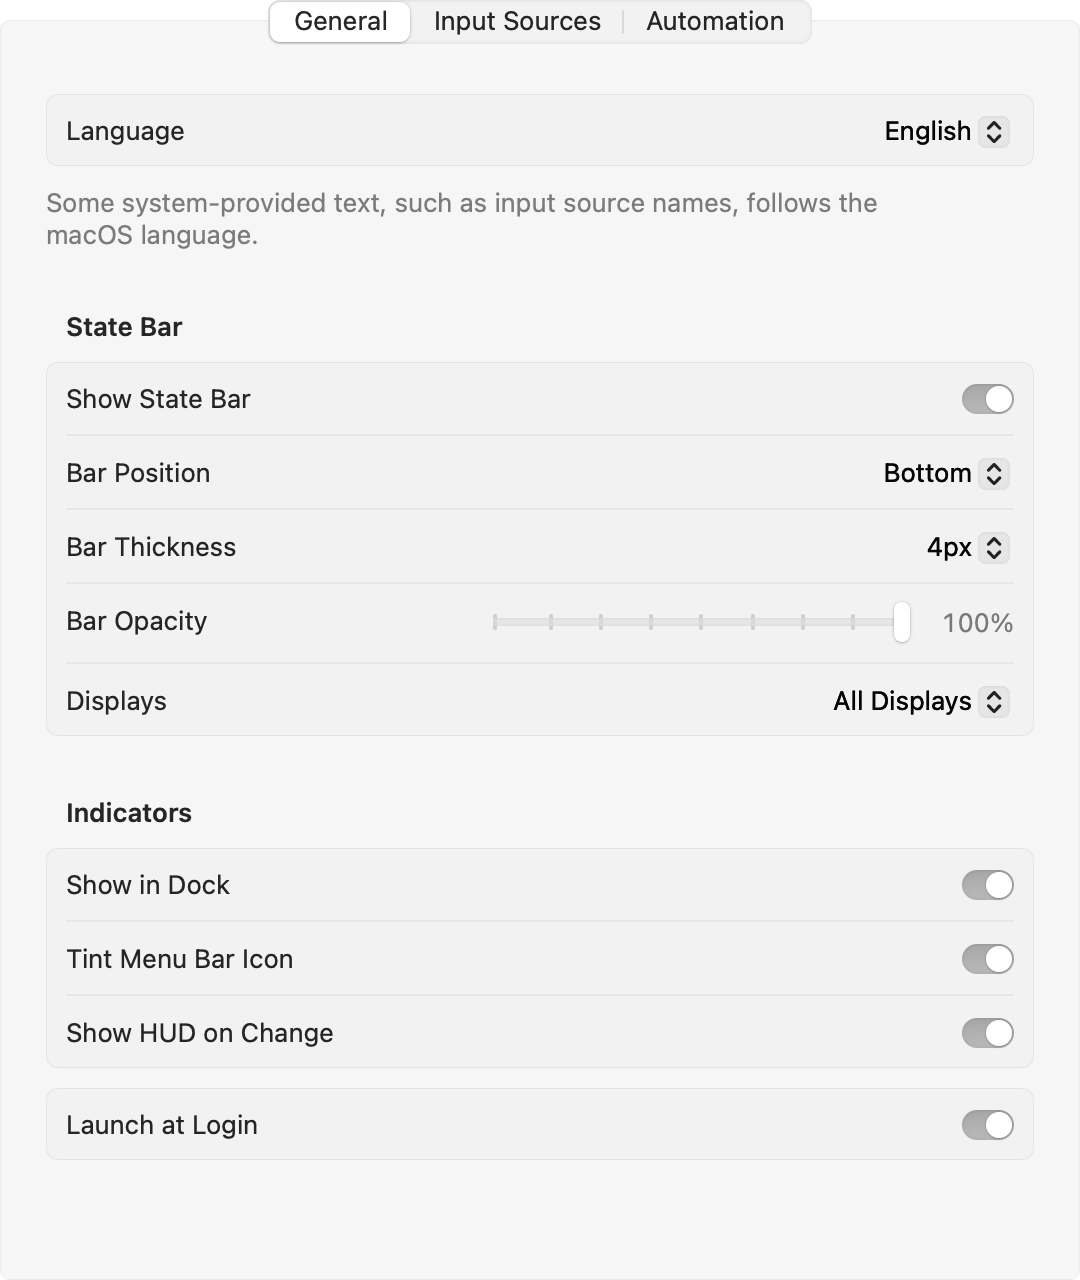
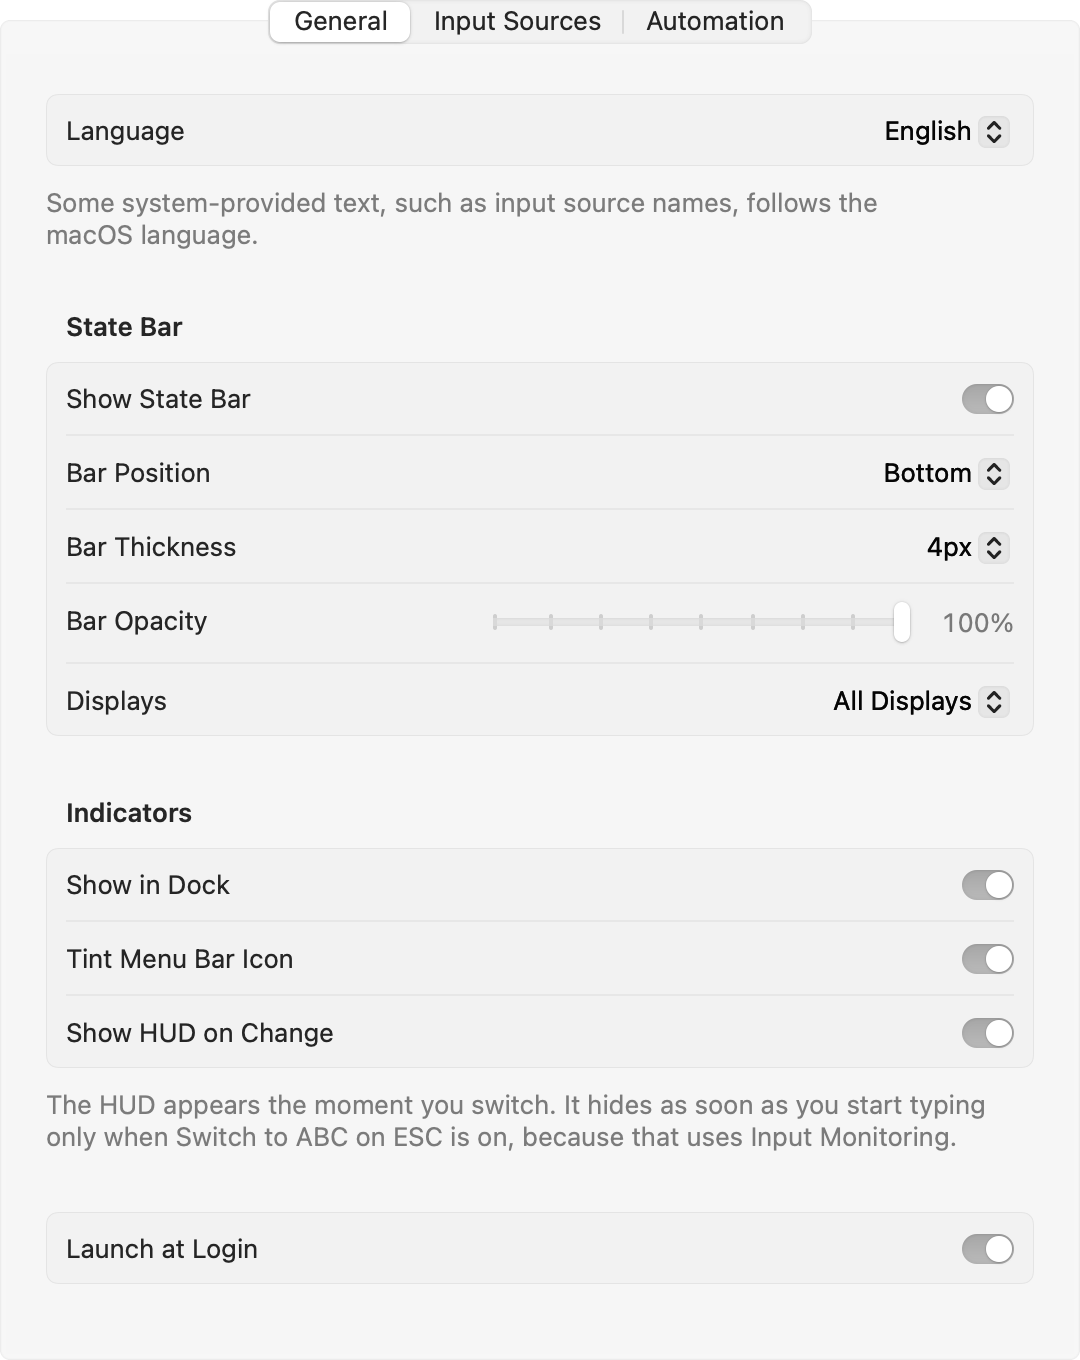
hud 딜레이 수정

diff --git a/site/manual-ko.html b/site/manual-ko.html
@@ -82,7 +82,7 @@
       <p>그 밖의 언어에도 자동으로 색이 정해지고, 매번 같은 색이 나옵니다. 빨강은 Caps Lock 전용입니다.</p>
 
       <h3>HUD</h3>
-      <p><b>전환 시 HUD 표시</b>를 켜면, 입력 소스를 바꿀 때마다 화면 아래쪽에 카멜레온이 새 입력 소스의 색으로 잠깐 나타납니다. 어떤 언어든 같은 방식입니다.</p>
+      <p><b>전환 시 HUD 표시</b>를 켜면, 입력 소스를 바꿀 때마다 화면 아래쪽에 카멜레온이 새 입력 소스의 색으로 잠깐 나타납니다. 어떤 언어든 같은 방식입니다. 전환하는 순간 바로 나타나 0.25초쯤 뒤에 사라집니다. <b>ESC를 누르면 ABC(으)로 전환</b>을 켜 두면 타이핑을 시작하는 즉시 숨기도 합니다.</p>
       <ul class="hud-samples">
         <li><figure><img src="assets/screens/hud-abc.png" alt="파란 카멜레온: ABC" width="104" height="96" loading="lazy"><figcaption>ABC</figcaption></figure></li>
         <li><figure><img src="assets/screens/hud-korean.png" alt="초록 카멜레온: 한국어" width="104" height="96" loading="lazy"><figcaption>한국어</figcaption></figure></li>
@@ -122,7 +122,7 @@
       <h3>일반</h3>
       <figure>
         <div class="window"><div class="titlebar"><i></i><i></i><i></i><span>KeyHue 설정</span></div>
-          <img src="assets/screens/ko/settings-general.png" alt="일반 탭: 언어, 상태 바 옵션, 표시, 로그인 시 실행" width="1080" height="1280" loading="lazy"></div>
+          <img src="assets/screens/ko/settings-general.png" alt="일반 탭: 언어, 상태 바 옵션, 표시, 로그인 시 실행" width="1080" height="1360" loading="lazy"></div>
         <figcaption>언어, 색 선, 메뉴바 아이콘, HUD, 로그인 시 실행.</figcaption>
       </figure>
       <ul>
@@ -135,7 +135,7 @@
       <h3>입력 소스</h3>
       <figure>
         <div class="window"><div class="titlebar"><i></i><i></i><i></i><span>KeyHue 설정</span></div>
-          <img src="assets/screens/ko/settings-sources.png" alt="입력 소스 탭: 입력 소스별 색, Caps Lock 색, 기본 입력 소스" width="1080" height="1280" loading="lazy"></div>
+          <img src="assets/screens/ko/settings-sources.png" alt="입력 소스 탭: 입력 소스별 색, Caps Lock 색, 기본 입력 소스" width="1080" height="1360" loading="lazy"></div>
         <figcaption>켜진 입력 소스마다 한 줄씩 나옵니다. 색을 눌러 바꿉니다.</figcaption>
       </figure>
       <ul>
@@ -147,7 +147,7 @@
       <h3>자동 전환</h3>
       <figure>
         <div class="window"><div class="titlebar"><i></i><i></i><i></i><span>KeyHue 설정</span></div>
-          <img src="assets/screens/ko/settings-automation.png" alt="자동 전환 탭: 앱·창을 바꿀 때의 동작, ESC, 실험적 텍스트 필드 옵션" width="1080" height="1280" loading="lazy"></div>
+          <img src="assets/screens/ko/settings-automation.png" alt="자동 전환 탭: 앱·창을 바꿀 때의 동작, ESC, 실험적 텍스트 필드 옵션" width="1080" height="1360" loading="lazy"></div>
         <figcaption>자동 전환은 직접 켜기 전까지 모두 꺼져 있습니다.</figcaption>
       </figure>
 

diff --git a/site/manual.html b/site/manual.html
@@ -82,7 +82,7 @@
       <p>Other languages get their own color automatically, and it stays the same every time. Red is kept for Caps Lock.</p>
 
       <h3>HUD</h3>
-      <p>With <b>Show HUD on Change</b> on, the chameleon appears briefly near the bottom of the screen in the new input source's color whenever you switch. It works the same way for every language.</p>
+      <p>With <b>Show HUD on Change</b> on, the chameleon appears briefly near the bottom of the screen in the new input source's color whenever you switch. It works the same way for every language. It appears the moment you switch and is gone about a quarter of a second later. If <b>Switch to ABC on ESC</b> is on, it also hides as soon as you start typing.</p>
       <ul class="hud-samples">
         <li><figure><img src="assets/screens/hud-abc.png" alt="Blue chameleon: ABC" width="104" height="96" loading="lazy"><figcaption>ABC</figcaption></figure></li>
         <li><figure><img src="assets/screens/hud-korean.png" alt="Green chameleon: Korean" width="104" height="96" loading="lazy"><figcaption>Korean</figcaption></figure></li>
@@ -122,7 +122,7 @@
       <h3>General</h3>
       <figure>
         <div class="window"><div class="titlebar"><i></i><i></i><i></i><span>KeyHue Settings</span></div>
-          <img src="assets/screens/en/settings-general.png" alt="General tab: Language, State Bar options, Indicators and Launch at Login" width="1080" height="1280" loading="lazy"></div>
+          <img src="assets/screens/en/settings-general.png" alt="General tab: Language, State Bar options, Indicators and Launch at Login" width="1080" height="1360" loading="lazy"></div>
         <figcaption>Language, the colored line, the menu bar icon, the HUD and Launch at Login.</figcaption>
       </figure>
       <ul>
@@ -135,7 +135,7 @@
       <h3>Input Sources</h3>
       <figure>
         <div class="window"><div class="titlebar"><i></i><i></i><i></i><span>KeyHue Settings</span></div>
-          <img src="assets/screens/en/settings-sources.png" alt="Input Sources tab: a color for each input source, Caps Lock color and Default Input Source" width="1080" height="1280" loading="lazy"></div>
+          <img src="assets/screens/en/settings-sources.png" alt="Input Sources tab: a color for each input source, Caps Lock color and Default Input Source" width="1080" height="1360" loading="lazy"></div>
         <figcaption>One row per enabled input source. Click a color to change it.</figcaption>
       </figure>
       <ul>
@@ -147,7 +147,7 @@
       <h3>Automation</h3>
       <figure>
         <div class="window"><div class="titlebar"><i></i><i></i><i></i><span>KeyHue Settings</span></div>
-          <img src="assets/screens/en/settings-automation.png" alt="Automation tab: what to do when switching apps and windows, ESC, and the experimental text field option" width="1080" height="1280" loading="lazy"></div>
+          <img src="assets/screens/en/settings-automation.png" alt="Automation tab: what to do when switching apps and windows, ESC, and the experimental text field option" width="1080" height="1360" loading="lazy"></div>
         <figcaption>All automatic switching is off until you turn it on.</figcaption>
       </figure>
 

diff --git a/Tests/KeyHueAppTests/AppIntegrationTests.swift b/Tests/KeyHueAppTests/AppIntegrationTests.swift
@@ -331,7 +331,7 @@ struct HUDTests {
         #expect(outside.alphaComponent < 0.01)
     }
 
-    private var visibleFor: TimeInterval { HUDController.fadeInDuration + HUDController.holdDuration }
+    private var visibleFor: TimeInterval { HUDController.holdDuration }
 
     @Test func showsTintedChameleonThenHides() throws {
         let clock = FakeScheduler()
@@ -352,19 +352,32 @@ struct HUDTests {
         let clock = FakeScheduler()
         let hud = HUDController(mask: halfMask(), scheduler: clock)
         hud.show(color: RGBAColor(hex: "#0A84FF")!, on: NSScreen.main)
-        clock.advance(by: 0.3)
-        hud.show(color: RGBAColor(hex: "#34C759")!, on: NSScreen.main) // 사라지기 전에 다시 전환(페이드 인 없이 유지 시간만 다시)
+        clock.advance(by: HUDController.holdDuration - 0.05)
+        hud.show(color: RGBAColor(hex: "#34C759")!, on: NSScreen.main) // 사라지기 전에 다시 전환(유지 시간만 다시)
         clock.advance(by: HUDController.holdDuration - 0.01) // 첫 번째 숨김 예약 시각도 지났지만 무시돼야 한다
         #expect(hud.isShowing)
         clock.advance(by: 0.01)
         #expect(!hud.isShowing)
     }
 
-    @Test func appearsGentlyAndLeavesQuickly() {
-        // ADR 0024, 0025: 나타날 때는 부드럽게, 사라질 때는 바로. 전체도 짧게.
+    @Test func appearsInstantlyAndLeavesQuickly() {
+        // ADR 0032: 전환하는 순간 바로 보이고(서서히 나타나면 전환이 늦게 느껴진다), 빠르게 사라진다. 전체도 짧게.
+        let clock = FakeScheduler()
+        let hud = HUDController(mask: halfMask(), scheduler: clock)
+        hud.show(color: RGBAColor(hex: "#FF9500")!, on: NSScreen.main)
+        #expect(hud.isFullyVisible) // 시간이 전혀 흐르지 않아도 완전히 보인다
         #expect(HUDController.fadeOutDuration <= 0.06)
-        #expect(HUDController.fadeInDuration > HUDController.fadeOutDuration)
-        #expect(HUDController.fadeInDuration + HUDController.holdDuration + HUDController.fadeOutDuration <= 0.55)
+        #expect(HUDController.holdDuration + HUDController.fadeOutDuration <= 0.35)
+    }
+
+    @Test func switchingAgainWhileFadingOutShowsItFullyRightAway() {
+        let clock = FakeScheduler()
+        let hud = HUDController(mask: halfMask(), scheduler: clock)
+        hud.show(color: RGBAColor(hex: "#0A84FF")!, on: NSScreen.main)
+        clock.advance(by: HUDController.holdDuration) // 사라지기 시작
+        #expect(!hud.isShowing)
+        hud.show(color: RGBAColor(hex: "#34C759")!, on: NSScreen.main)
+        #expect(hud.isFullyVisible)
     }
 
     @Test func typingHidesItImmediately() {
@@ -385,7 +398,7 @@ struct HUDTests {
         hud.hideNow()
         clock.advance(by: 0.1)
         hud.show(color: RGBAColor(hex: "#0A84FF")!, on: NSScreen.main) // 바로 다시 전환
-        clock.advance(by: visibleFor - 0.11) // 첫 번째 숨김 예약 시각이 지나도
+        clock.advance(by: visibleFor - 0.01) // 첫 번째 숨김 예약 시각이 지나도
         #expect(hud.isShowing)
         clock.advance(by: 0.2)
         #expect(!hud.isShowing)

diff --git a/Sources/KeyHueApp/UI/HUDController.swift b/Sources/KeyHueApp/UI/HUDController.swift
@@ -7,9 +7,9 @@ import KeyHueCore
 /// 색이 곧 입력 소스이므로 State Bar·메뉴바 아이콘과 같은 규칙을 따른다.
 @MainActor
 final class HUDController {
-    /// 나타날 때는 부드럽게, 사라질 때는 바로(ADR 0025). 확인하고 타이핑을 시작할 때 HUD가 남아 있으면 느리게 느껴진다.
-    static let fadeInDuration: TimeInterval = 0.15
-    static let holdDuration: TimeInterval = 0.3
+    /// 전환하는 순간 바로 나타나고(페이드 인 없음), 잠깐 머문 뒤 빠르게 사라진다(ADR 0032).
+    /// 서서히 나타나면 색 확인이 그만큼 늦어져 전환 자체가 느리게 느껴진다.
+    static let holdDuration: TimeInterval = 0.25
     static let fadeOutDuration: TimeInterval = 0.05
     static let size = NSSize(width: 104, height: 96)
     private static let bottomOffset: CGFloat = 140
@@ -38,6 +38,9 @@ final class HUDController {
     /// 표시 중인 카멜레온 이미지(테스트용).
     var image: NSImage? { imageView.image }
 
+    /// 완전히 보이는 중인지(테스트용). 나타나는 애니메이션 없이 표시하자마자 true여야 한다.
+    var isFullyVisible: Bool { isShowing && panel.alphaValue >= 1 }
+
     /// 문서용 스크린샷(DocScreenshots)에서 HUD 모양을 그릴 때 쓴다.
     var contentView: NSView? { panel.contentView }
 
@@ -52,20 +55,16 @@ final class HUDController {
         ))
         generation += 1
         let current = generation
-        // 이미 떠 있으면(빠른 연속 전환) 다시 페이드 인 하지 않고 색만 바꾼다.
-        let fadeIn = isShowing ? 0 : Self.fadeInDuration
-        if !isShowing {
-            panel.alphaValue = 0
-        }
+        // 애니메이션 없이 바로 보인다. 사라지는 중이었어도 즉시 다시 불투명하게 되돌린다.
         isShowing = true
-        panel.orderFrontRegardless()
         NSAnimationContext.runAnimationGroup { context in
-            context.duration = fadeIn
-            context.timingFunction = CAMediaTimingFunction(name: .easeOut)
+            context.duration = 0
             panel.animator().alphaValue = 1
         }
+        panel.alphaValue = 1
+        panel.orderFrontRegardless()
 
-        scheduler.schedule(after: fadeIn + Self.holdDuration) { [weak self] in
+        scheduler.schedule(after: Self.holdDuration) { [weak self] in
             self?.fadeOut(current)
         }
     }

diff --git a/Sources/KeyHueApp/UI/SettingsWindow.swift b/Sources/KeyHueApp/UI/SettingsWindow.swift
@@ -187,7 +187,7 @@ struct SettingsView: View {
     @ObservedObject var model: SettingsModel
     @State var tab: SettingsTab = .general
 
-    static let size = CGSize(width: 540, height: 640)
+    static let size = CGSize(width: 540, height: 680)
 
     var body: some View {
         TabView(selection: $tab) {
@@ -247,10 +247,14 @@ private struct GeneralSettingsView: View {
                 }
             }
 
-            Section(L("Indicators")) {
+            Section {
                 Toggle(L("Show in Dock"), isOn: model.binding(\.showDockIcon))
                 Toggle(L("Tint Menu Bar Icon"), isOn: model.binding(\.tintMenuBarIcon))
                 Toggle(L("Show HUD on Change"), isOn: model.binding(\.showHUD))
+            } header: {
+                Text(L("Indicators"))
+            } footer: {
+                FooterText(L("The HUD appears the moment you switch. It hides as soon as you start typing only when Switch to %@ on ESC is on, because that uses Input Monitoring.", model.resolvedDefaultName))
             }
 
             Section {

diff --git a/docs/adr/0032-hud-appears-instantly.md b/docs/adr/0032-hud-appears-instantly.md
@@ -1,0 +1,23 @@
+# 0032. HUD는 전환하는 순간 바로 나타난다 (페이드 인 없음)
+
+- 상태: Accepted (ADR 0025의 나타나는 방식과 유지 시간을 대체)
+- 날짜: 2026-09-29
+
+## 맥락
+ADR 0025에서 HUD는 0.15초에 걸쳐 부드럽게 나타나 0.3초 머문 뒤 0.05초 만에 사라지도록 했다. 이후 "HUD가 보이면서 전환에 딜레이가 있는 것 같다"는 보고가 있었다.
+- 입력 소스 전환 자체는 약 25 ms에 반영된다(ADR 0023). 하지만 HUD가 완전히 보이기까지 150 ms가 더 걸리므로, 사용자는 색을 확인하려고 그만큼 기다리게 되고 전환이 늦다고 느낀다.
+- 타이핑을 시작하면 HUD를 바로 숨기는 기능(ADR 0025)은 키 입력을 알아야 한다. 그래서 ESC 옵션(입력 모니터링)을 켰을 때만 동작하는데, 이 조건이 화면에 드러나 있지 않았다. ESC 옵션이 꺼져 있으면 HUD가 약 0.5초 동안 글자 위에 떠 있었다.
+
+## 결정
+- **페이드 인을 없앤다.** 전환 알림을 받는 즉시 완전히 불투명하게 표시한다. 사라지는 중에 다시 전환해도 곧바로 불투명하게 되돌린다.
+- 유지 시간은 0.3초에서 **0.25초**로 줄이고, 사라지는 시간(0.05초)은 그대로 둔다. 보이는 시간은 합쳐서 약 0.3초다(이전에는 약 0.5초).
+- 타이핑하면 바로 숨는 기능은 그대로 두되, ESC 옵션을 켜야 동작한다는 점을 설정 창의 표시 섹션 안내 문구에 적는다.
+- 이 기능 때문에 입력 모니터링을 따로 요구하지는 않는다. 권한은 기능을 켤 때만 요청한다는 원칙(ADR 0008)을 지킨다.
+
+## 결과
+- 통합 테스트
+  - 시간이 전혀 흐르지 않아도 표시 직후 완전히 보인다.
+  - 사라지는 중에 다시 전환하면 바로 완전히 보인다.
+  - 사라지는 시간은 0.06초 이하, 전체는 0.35초 이하다.
+  - 기존의 연속 전환, 타이핑 시 숨김, 오래된 숨김 예약 무시 테스트도 새 타이밍으로 유지한다.
+- 전환 직후 타이핑이 늦게 느껴지는 것은 KeyHue를 끈 상태에서도 재현되어, HUD와는 별개의 macOS 쪽 문제로 따로 다룬다.

diff --git a/docs/adr/README.md b/docs/adr/README.md
@@ -28,10 +28,11 @@ KeyHue의 주요 설계 결정을 기록한다. 형식은 [0001](0001-record-arc
 | [0022](0022-testing-strategy.md) | 판단 로직은 Core로 모으고 앱·스크립트·사이트·릴리즈 서명까지 자동 테스트 | Accepted |
 | [0023](0023-deliver-input-source-notifications-immediately.md) | 입력 소스 알림은 즉시 전달(deliverImmediately)로 받는다 | Accepted |
 | [0024](0024-chameleon-hud.md) | 전환 HUD는 글자 대신 카멜레온을 입력 소스 색으로, 짧게 뜨고 빨리 사라진다 | Accepted (타이밍은 0025로 갱신) |
-| [0025](0025-hud-appears-gently-leaves-fast.md) | HUD는 부드럽게 나타나고 바로 사라지며, 타이핑하면 즉시 숨는다 | Accepted |
+| [0025](0025-hud-appears-gently-leaves-fast.md) | HUD는 부드럽게 나타나고 바로 사라지며, 타이핑하면 즉시 숨는다 | Accepted (나타나는 방식은 0032로 갱신) |
 | [0026](0026-no-wall-clock-waits-in-tests.md) | 타이밍 테스트는 실제 시간을 기다리지 않고 가짜 시간을 주입한다 | Accepted |
 | [0027](0027-reset-on-window-switch.md) | 같은 앱 안에서 창을 바꾸면 기본 입력 소스로 전환 (메인 창 변경 기준) | Accepted (옵션 형태는 0029로 대체, 대기 시간은 0031로 갱신) |
 | [0028](0028-remember-input-per-window.md) | 창마다 입력 소스를 기억한다 (AX 창 동일성, 앱 실행 중에만) | Accepted (대기 시간은 0031로 갱신) |
 | [0029](0029-switch-behavior-per-situation.md) | 앱·창을 바꿀 때 "그대로 / 기본 입력 소스로 전환 / 마지막 입력 소스로 복원" 중 하나를 고른다 | Accepted |
 | [0030](0030-bounded-accessibility-requests.md) | 손쉬운 사용 요청은 짧게 끊고, 켜진 옵션에 필요한 것만 관찰한다 | Accepted |
 | [0031](0031-faster-app-switch.md) | 앱 전환 뒤 대기를 40 ms로 줄이고, 덮어쓰기는 알림을 받는 즉시 바로잡는다 | Accepted |
+| [0032](0032-hud-appears-instantly.md) | HUD는 전환하는 순간 바로 나타난다 (페이드 인 없음) | Accepted |

diff --git a/docs/SPEC.md b/docs/SPEC.md
@@ -170,7 +170,7 @@ Notion    → Korean
 ```
 
 ### 전환 순간 HUD
-상태 변경 순간 **카멜레온 실루엣을 새 입력 소스 색으로** 화면 중앙 하단에 잠깐 표시한다. 0.15초에 걸쳐 부드럽게 나타나 0.3초 머문 뒤 0.05초 만에 사라지고, 그 사이 타이핑을 시작하면 바로 숨는다([ADR 0025](adr/0025-hud-appears-gently-leaves-fast.md)). 평소에는 State Bar만 유지한다.
+상태 변경 순간 **카멜레온 실루엣을 새 입력 소스 색으로** 화면 중앙 하단에 잠깐 표시한다. 전환하는 순간 바로 나타나 0.25초 머문 뒤 0.05초 만에 사라진다([ADR 0032](adr/0032-hud-appears-instantly.md)). 그 사이 타이핑을 시작하면 바로 숨는데, 키 입력을 알아야 하므로 ESC 옵션(입력 모니터링)이 켜져 있을 때만 동작한다([ADR 0025](adr/0025-hud-appears-gently-leaves-fast.md)). 평소에는 State Bar만 유지한다.
 
 > 처음에는 `가 / a / A` 같은 글자를 썼지만, 언어마다 글자를 따로 정해야 하고 글자 하나로 구분하기 어려운 언어도 있어서 카멜레온으로 바꿨다([ADR 0024](adr/0024-chameleon-hud.md)).
 

diff --git a/docs/adr/0025-hud-appears-gently-leaves-fast.md b/docs/adr/0025-hud-appears-gently-leaves-fast.md
@@ -1,6 +1,6 @@
 # 0025. HUD는 부드럽게 나타나고 바로 사라지며, 타이핑하면 즉시 숨는다
 
-- 상태: Accepted (ADR 0024의 표시 타이밍을 대체)
+- 상태: Accepted (ADR 0024의 표시 타이밍을 대체, 나타나는 방식과 유지 시간은 0032로 갱신)
 - 날짜: 2026-09-29
 
 ## 맥락
